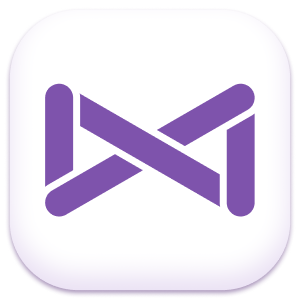
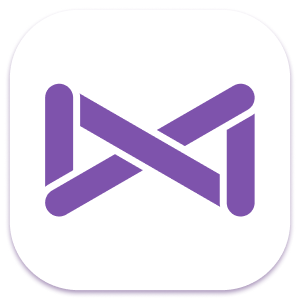
update

Changed region(s): [[0.15, 0.9, 0.9, 0.99], [0.09, 0.87, 0.15, 0.93], [0.9, 0.87, 0.93, 0.9]]

diff --git a/_sass/4-layouts/_page.scss b/_sass/4-layouts/_page.scss
@@ -9,9 +9,9 @@
   }
   
   .page-logo {
-    margin: 0px 0px 0px 10px;
-    width: 80px;
-    height: 80px;
+    margin: 5px 0px 0px 15px;
+    width: 70px;
+    height: 70px;
     background-size: cover;
     background-position: center;
     background-repeat: no-repeat;
